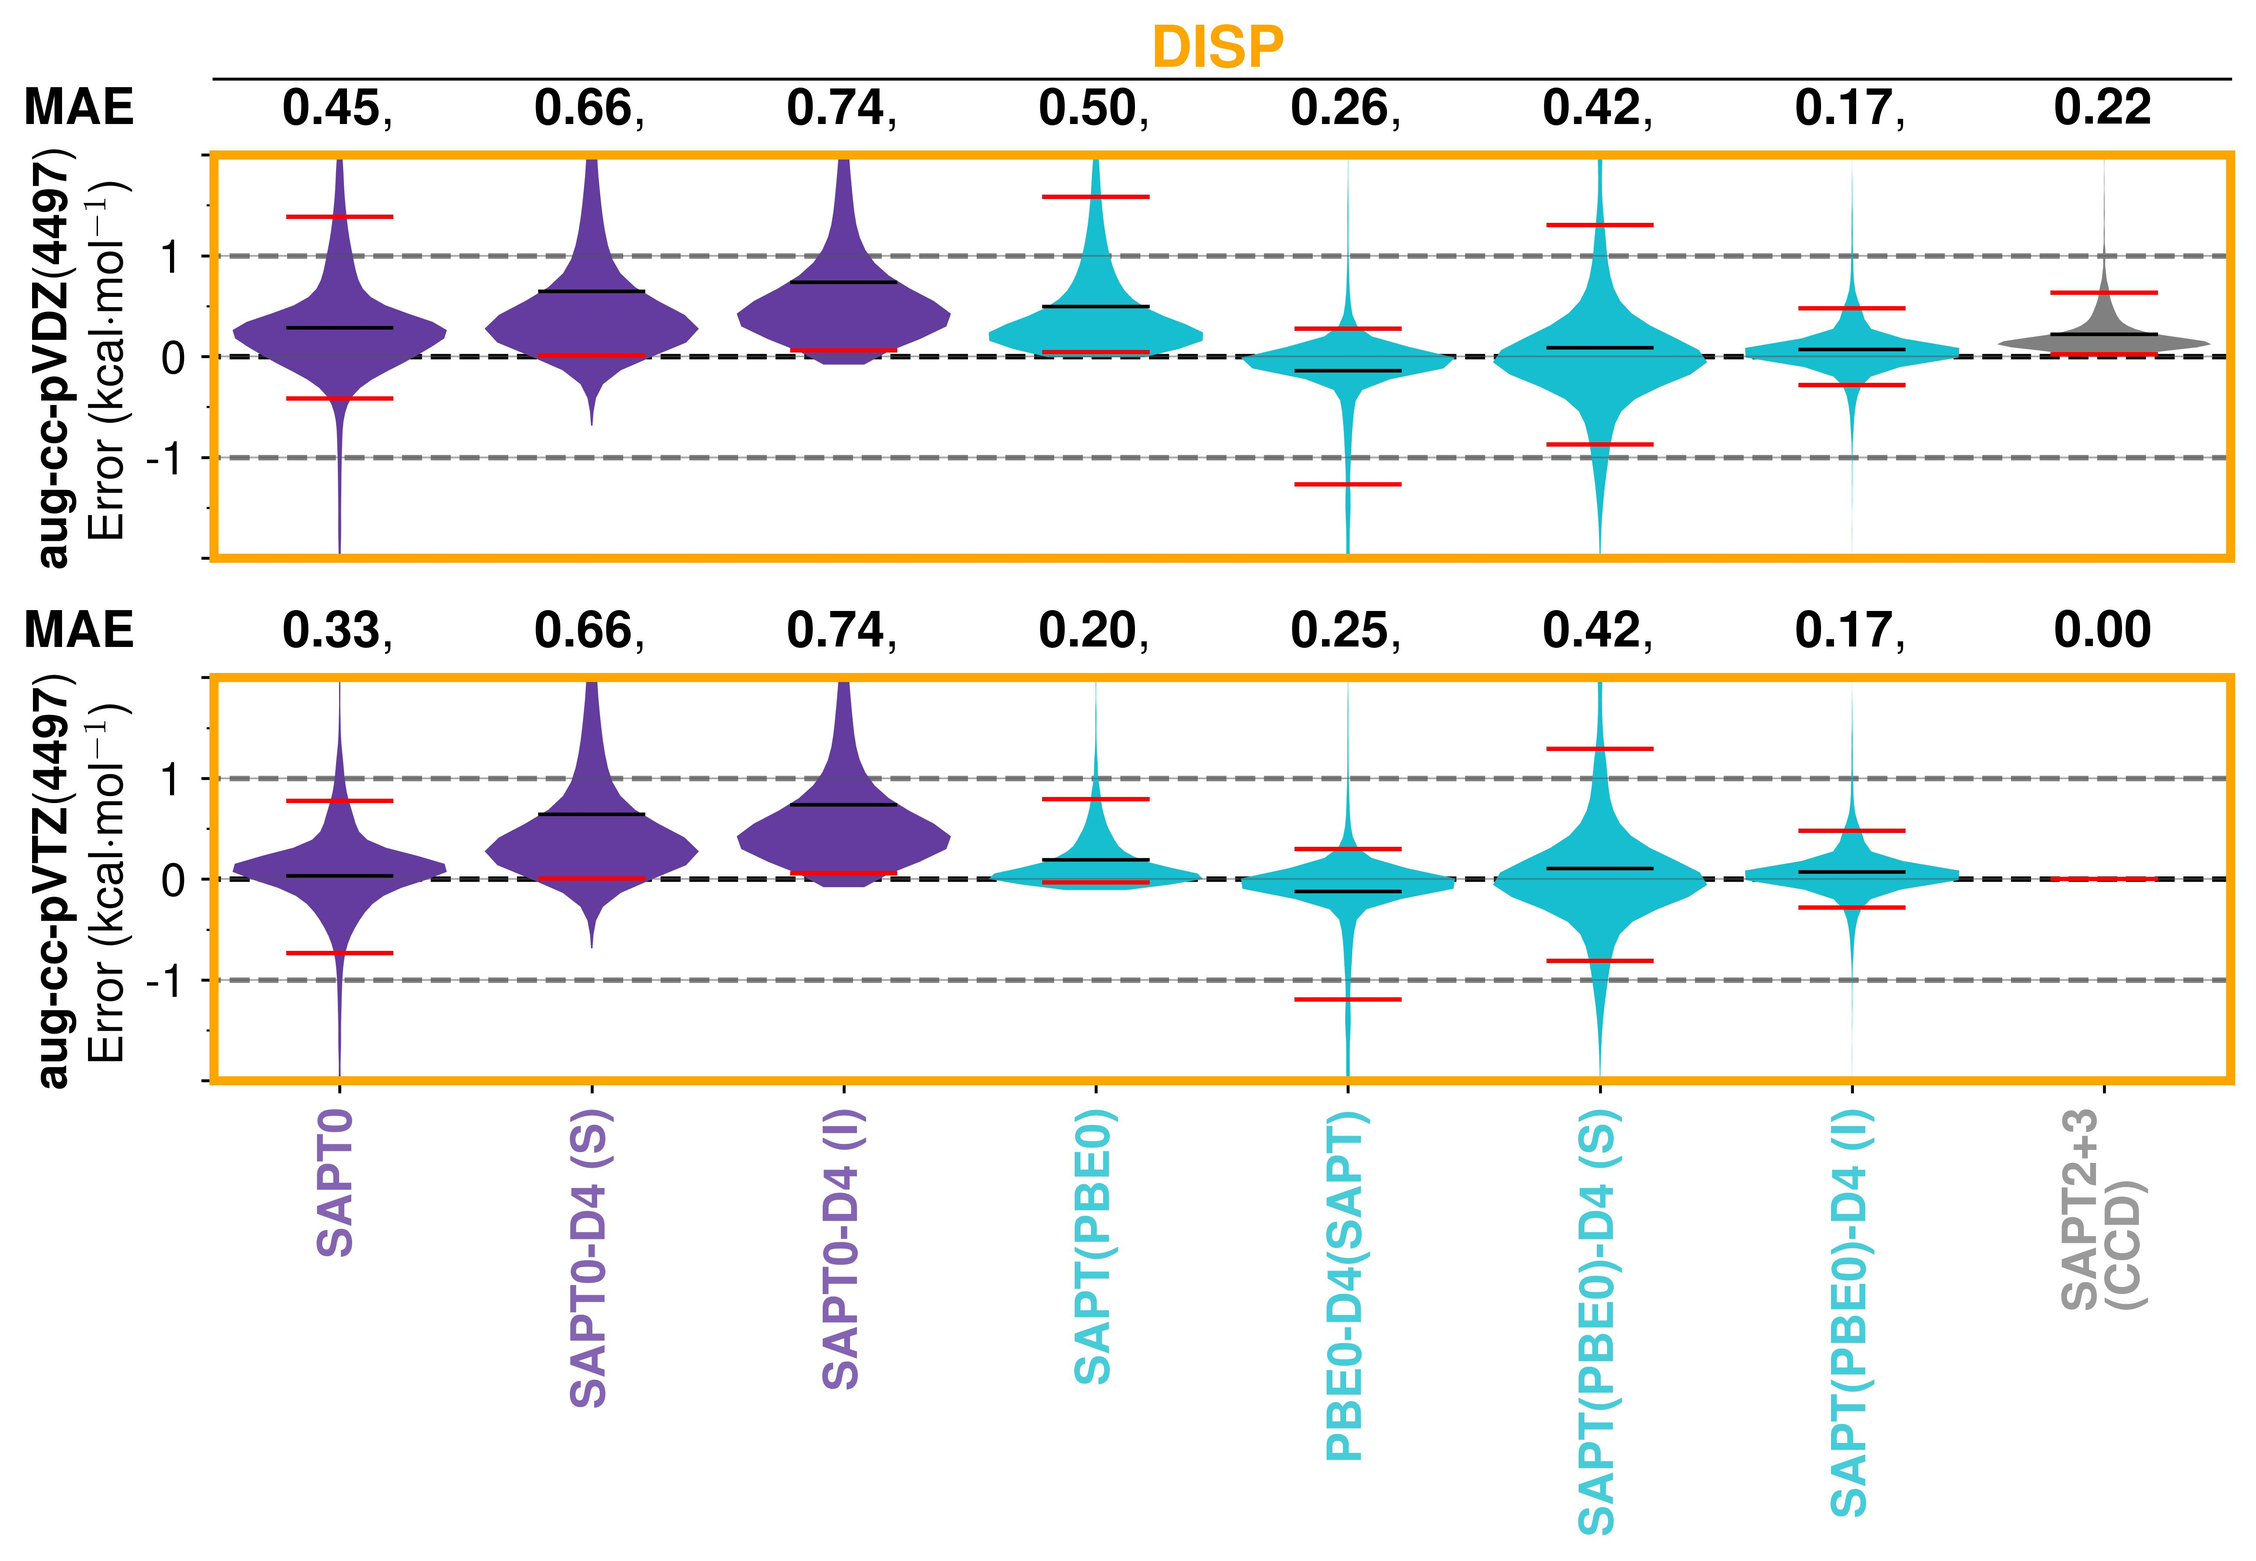
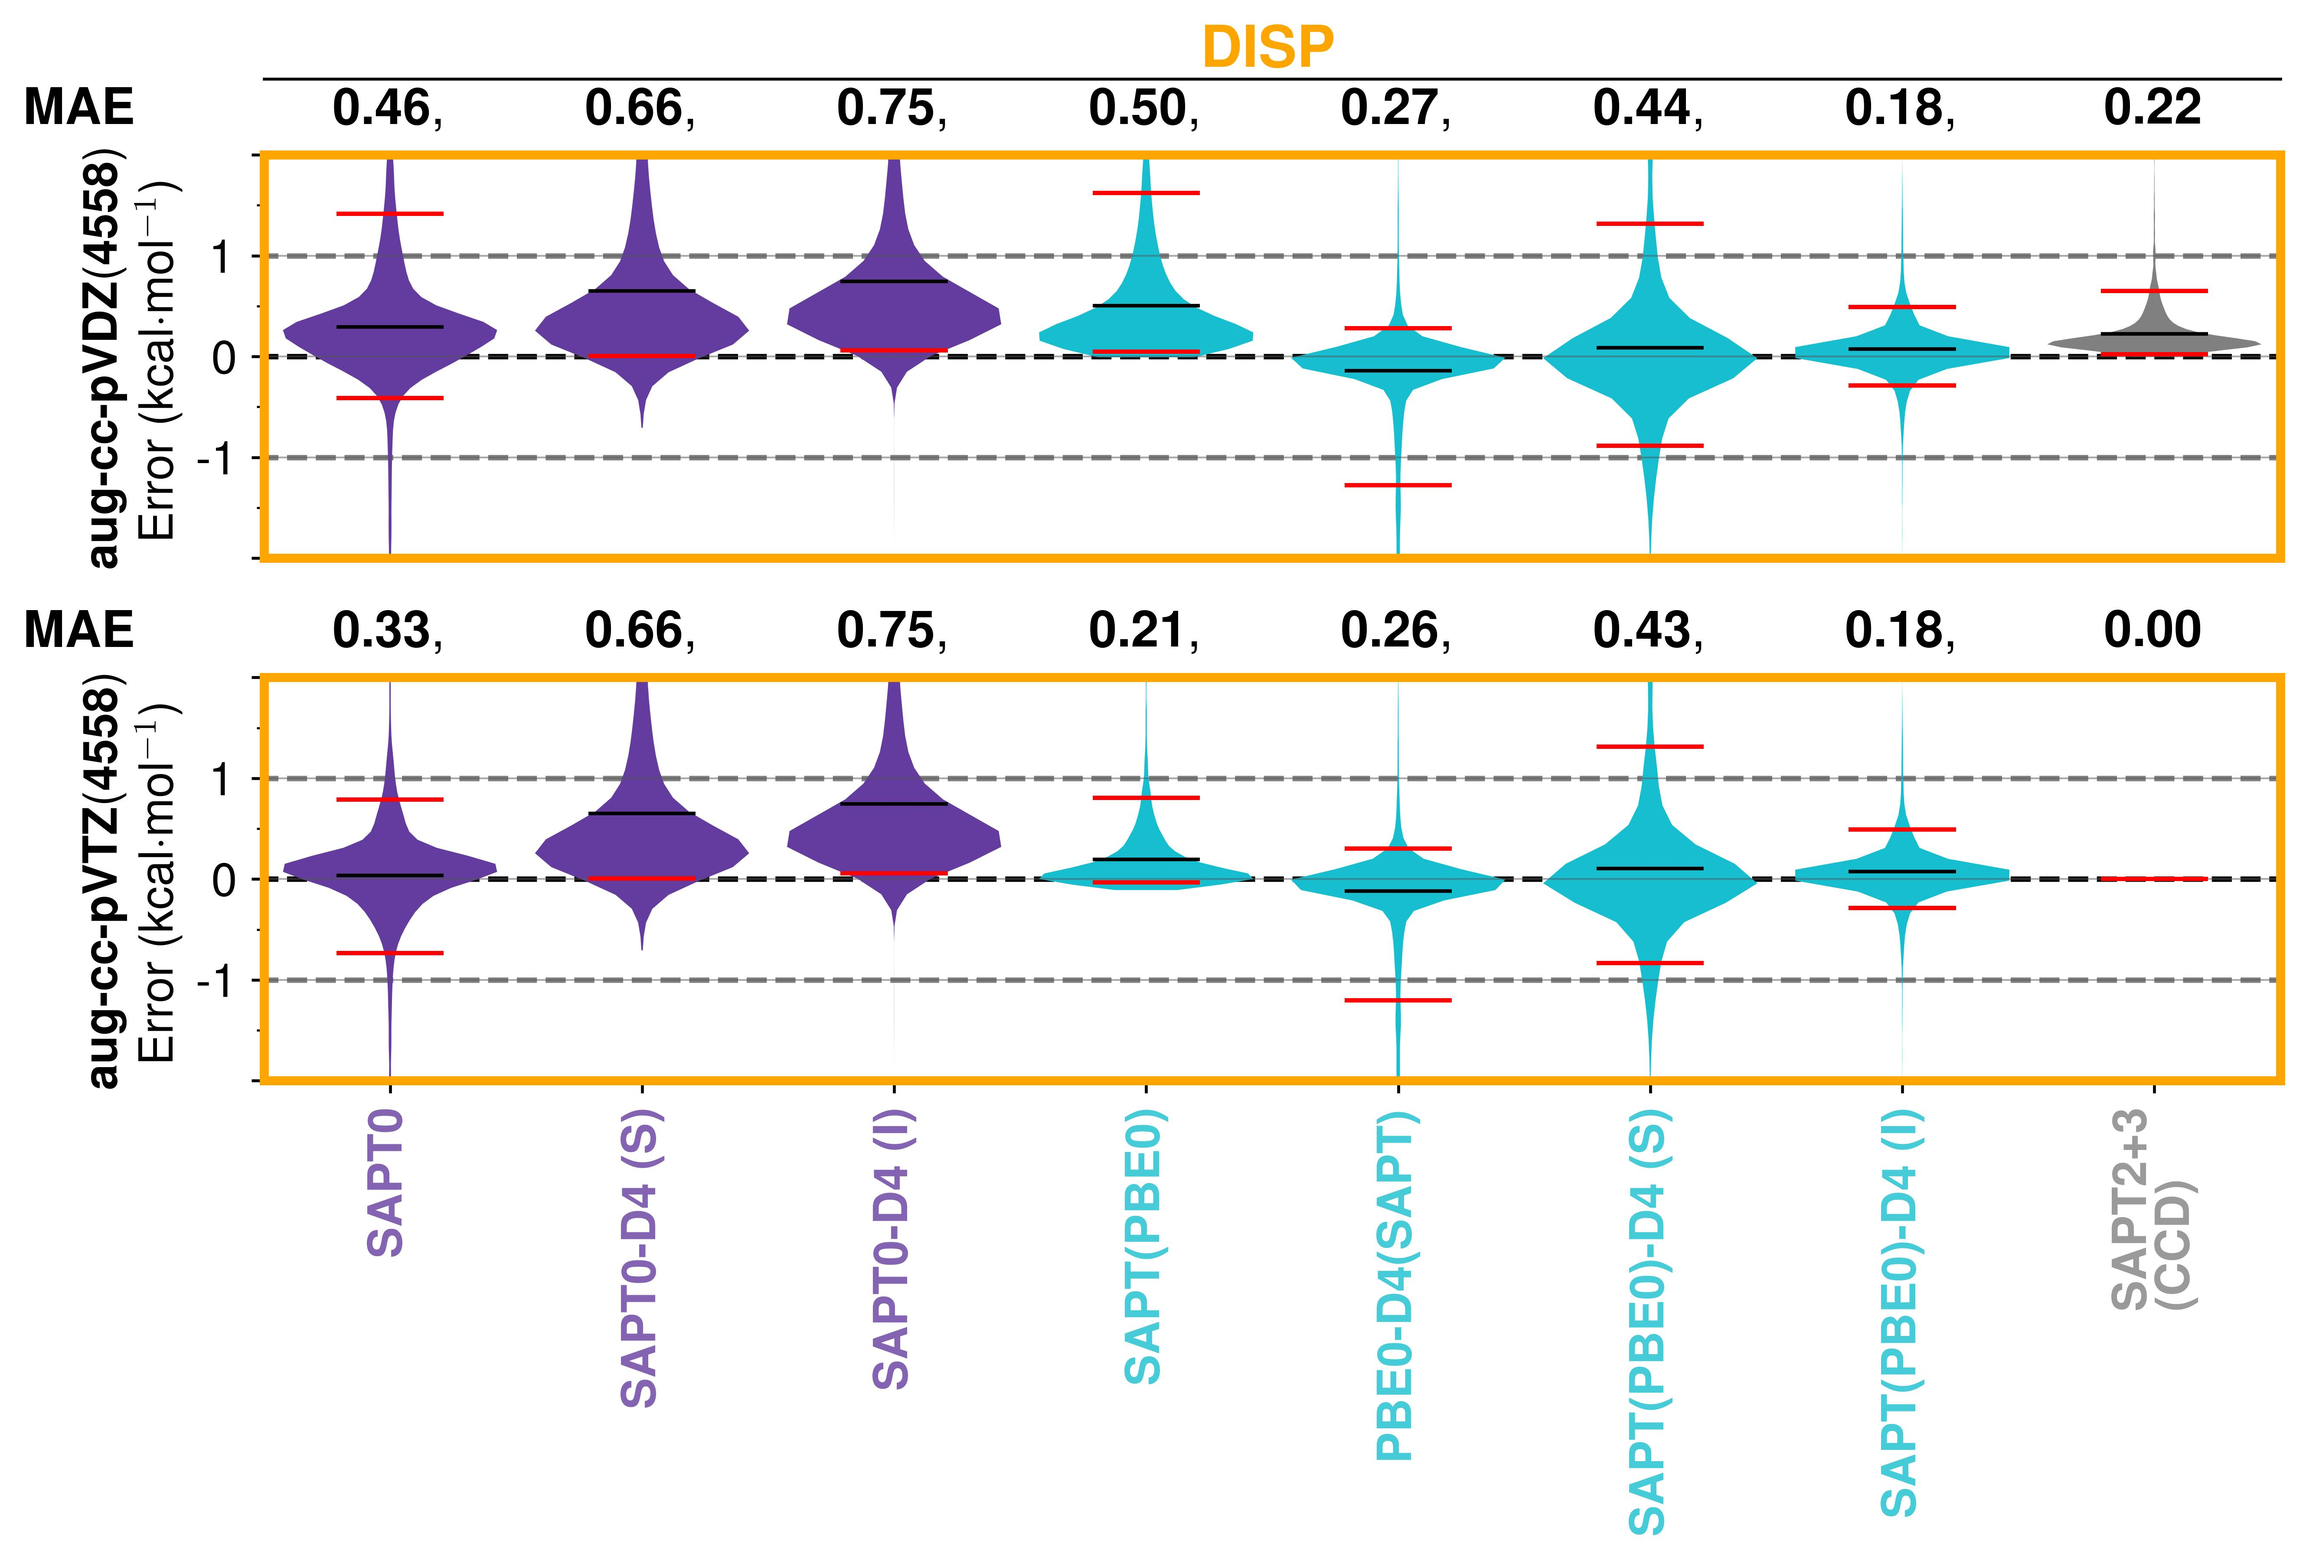
presentation plots

diff --git a/src/plotting.py b/src/plotting.py
@@ -6944,6 +6944,21 @@ def violin_plots_multi_components_df_individual(df, limit_to_column_not_nan=None
         "SAPT(PBE0)-D4 SUPRA DISP ENERGY",
         "SAPT(B3LYP)-D4 SUPRA DISP ENERGY",
         "SAPT0-D4 (I) DISP ENERGY",
+        "SAPT0-D4 (I) TOTAL ENERGY",
+
+        "SAPT0 TOTAL ENERGY",
+        "SAPT2+3(CCD) TOTAL ENERGY",
+        "SAPT2+DMP2 TOTAL ENERGY",
+        "SAPT2+(CCD)DMP2 TOTAL ENERGY",
+        "SAPT2+3(CCD)DMP2 TOTAL ENERGY",
+        "SAPT0-D4 TOTAL ENERGY",
+        "SAPT TOTAL ENERGY",
+        "SAPT(DFT)D3-ML TOTAL ENERGY",
+        "SAPT(B3LYP)D3-ML TOTAL ENERGY",
+        "SAPT(DFT)-D4 TOTAL ENERGY",
+        "SAPT(DFT)+D4 TOTAL ENERGY",
+        "SAPT(PBE0)-D4 SUPRA TOTAL ENERGY",
+        "SAPT(B3LYP)-D4 SUPRA TOTAL ENERGY",
     ]
     sapt_reference = {
         # "ELST": "SAPT2+3(CCD)DMP2 ELST ENERGY",
@@ -6956,7 +6971,6 @@ def violin_plots_multi_components_df_individual(df, limit_to_column_not_nan=None
         "DISP": "SAPT2+3(CCD) DISP ENERGY",
     }
 
-    reference = "benchmark ref energy"
     copy_cols_start = [
         "DB",
         "system_id",
@@ -6985,10 +6999,21 @@ def violin_plots_multi_components_df_individual(df, limit_to_column_not_nan=None
         # "SAPT_DFT_pbe0_atz_disp",
         # "SAPT_DFT_pbe0d4_atz_disp",
         # "SAPT0-D4 atz",
+        "SAPT_DFT_D4_pbe0_adz_total",
+        "SAPT_DFT_D4_pbe0_atz_total",
+        "SAPT_DFT_pbe0_adz_total",
+        "SAPT_DFT_pbe0_atz_total",
+        "SAPT_DFT_D4_b3lyp_adz_total",
+        "SAPT_DFT_D4_b3lyp_atz_total",
+        "SAPT_DFT_b3lyp_adz_total",
+        "SAPT_DFT_b3lyp_atz_total",
+
     ]
     copy_cols = copy_cols_start.copy()
     copy_cols.extend([f"{c} adz" for c in sapt_methods])
     copy_cols.extend([f"{c} adz" for c in sapt_reference.values()])
+    print('copying cols:')
+    pp(copy_cols)
     df_adz = df[copy_cols].copy()
     df_adz.columns = [c.replace(" adz", "") for c in df_adz.columns]
 
@@ -7002,6 +7027,37 @@ def violin_plots_multi_components_df_individual(df, limit_to_column_not_nan=None
 
     df_adz = sapt_error_comp(df_adz, df_atz, sapt_reference, sapt_methods)
     df_atz = sapt_error_comp(df_atz, df_atz, sapt_reference, sapt_methods)
+
+    df_adz = df_adz.rename(
+        columns={
+            "SAPT_DFT_D4_pbe0_adz_total": "PBE0-D4 TOTAL ENERGY",
+            "SAPT_DFT_pbe0_adz_total": "SAPT(DFT) [PBE0] TOTAL ENERGY",
+            "SAPT_DFT_D4_b3lyp_adz_total": "B3LYP-D4 TOTAL ENERGY",
+            "SAPT_DFT_b3lyp_adz_total": "SAPT(DFT) [B3LYP] TOTAL ENERGY",
+        },
+        # inplace=True,
+    )
+    df_atz = df_atz.rename(
+        columns={
+            "SAPT_DFT_D4_pbe0_atz_total": "PBE0-D4 TOTAL ENERGY",
+            "SAPT_DFT_pbe0_atz_total": "SAPT(DFT) [PBE0] TOTAL ENERGY",
+            "SAPT_DFT_D4_b3lyp_atz_total": "B3LYP-D4 TOTAL ENERGY",
+            "SAPT_DFT_b3lyp_atz_total": "SAPT(DFT) [B3LYP] TOTAL ENERGY",
+        },
+        # inplace=True,
+    )
+
+    local_methods = [
+        "PBE0-D4 TOTAL ENERGY",
+        "B3LYP-D4 TOTAL ENERGY",
+        "SAPT(DFT) [PBE0] TOTAL ENERGY",
+        "SAPT(DFT) [B3LYP] TOTAL ENERGY",
+    ]
+    reference = "benchmark ref energy"
+    pp(df_adz.columns.to_list())
+    for i in local_methods:
+        df_adz[f"{i} Error"] = df_adz[i] * h2kcalmol - df_adz[reference]
+        df_atz[f"{i} Error"] = df_atz[i] * h2kcalmol - df_atz[reference]
 
     adz_ylims = [
         [-2, 2],
@@ -7108,6 +7164,83 @@ def violin_plots_multi_components_df_individual(df, limit_to_column_not_nan=None
             # INDIGO,
         ],
     ]
+
+    # TOTAL
+    cdsg_plot.error_statistics.violin_plot_table_multi_SAPT_components(
+        dfs_all,
+        df_labels_and_columns_elst={},
+        df_labels_and_columns_exch={},
+        df_labels_and_columns_indu={},
+        df_labels_and_columns_disp={},
+        df_labels_and_columns_total={
+            "SAPT0": "SAPT0 TOTAL ENERGY Error",
+            "SAPT0-D4 (S)": "SAPT0-D4 TOTAL ENERGY Error",
+            "SAPT0-D4 (I)": "SAPT0-D4 (I) TOTAL ENERGY Error",
+            "SAPT(PBE0)": "SAPT(DFT) [PBE0] TOTAL ENERGY Error",
+            "PBE0-D4(SAPT)": "PBE0-D4 TOTAL ENERGY Error",
+            "SAPT(PBE0)-D4 (S)": "SAPT(DFT)-D4 TOTAL ENERGY Error",
+            "SAPT(PBE0)-D4 (I)": "SAPT(PBE0)-D4 SUPRA TOTAL ENERGY Error",
+            "SAPT(B3LYP)": "SAPT(DFT) [B3LYP] TOTAL ENERGY Error",
+            "B3LYP-D4(SAPT)": "B3LYP-D4 TOTAL ENERGY Error",
+            # "SAPT(PBE0)\\\\D3-ML": "SAPT(DFT)D3-ML TOTAL ENERGY Error",
+            "SAPT2+3\\\\(CCD)": "SAPT2+3(CCD) TOTAL ENERGY Error",
+        },
+        colors=[
+            [
+                # PURPLE,TEAL,LIGHT_BLUE,Medium_Sea_Green,INDIGO,PURPLE,TEAL,LIGHT_BLUE,Medium_Sea_Green,INDIGO,'orange',GREY,
+                # PURPLE,TEAL,LIGHT_BLUE,Medium_Sea_Green,INDIGO,PURPLE,TEAL,LIGHT_BLUE,Medium_Sea_Green,INDIGO,'orange',GREY,
+                PURPLE,
+                PURPLE,
+                PURPLE,
+                TEAL,
+                TEAL,
+                TEAL,
+                TEAL,
+                Medium_Sea_Green,
+                Medium_Sea_Green,
+                # "orange",
+                GREY,
+                Medium_Sea_Green,
+                PURPLE,
+                TEAL,
+                Medium_Sea_Green,
+            ]
+        ],
+        output_filename=f"./plots/individuals/LoS_total_saptdft_extended_pres.jpg",
+        # f"./plots/individuals/LoS_total_saptdft_extended_pres_violin.jpg",
+        usetex=True,
+        legend_loc=None,
+        figure_size=(10, 5),
+        grid_widths=[1.0],
+        grid_heights=[
+            0.08,
+            1,
+            0.08,
+            1,
+        ],
+        table_fontsize=14,
+        x_label_fontsize=13,
+        y_label_fontsize=13,
+        title_fontsize=16,
+        mcure=None,
+        MAE="textbf",
+        RMSE=False,
+        MinE=False,
+        MaxE=False,
+        annotations_texty=0.0,
+        share_y_axis=True,
+        wspace=0.05,
+        table_delimiter=",",
+        gridlines_linewidths=1.5,
+        violin_alphas=1.0,
+        quantile_linewidth=1.2,
+        pm_alpha=0.5,
+        zero_alpha=1.0,
+        hide_ytick_label_edges=True,
+        # mcure=mcure_labels,
+    )
+
+
     # DIPS Components
     cdsg_plot.error_statistics.violin_plot_table_multi_SAPT_components(
         dfs_all,
@@ -7191,98 +7324,8 @@ def violin_plots_multi_components_df_individual(df, limit_to_column_not_nan=None
         hide_ytick_label_edges=True,
         # mcure=mcure_labels,
     )
-    return
 
-    cdsg_plot.error_statistics.violin_plot_table_multi_SAPT_components(
-        dfs_all,
-        df_labels_and_columns_elst={},
-        df_labels_and_columns_exch={},
-        df_labels_and_columns_indu={},
-        df_labels_and_columns_disp={},
-        df_labels_and_columns_total={
-            # "PBE0": "PBE0 IE Error",
-            # "B3LYP": "B3LYP IE Error",
-            # "B2PLYP": "B2PLYP IE Error",
-            # "WB97X": "WB97X IE Error",
-            # SAPT(DFT)
-            "SAPT0": "SAPT0 TOTAL ENERGY Error",
-            "SAPT(PBE0)": "SAPT(DFT) [PBE0] TOTAL ENERGY Error",
-            "SAPT(B3LYP)": "SAPT(DFT) [B3LYP] TOTAL ENERGY Error",
-            # "SAPT(DFT)\\\\[B2PLYP]": "SAPT(DFT) [B2PLYP] TOTAL ENERGY Error",
-            # "SAPT(DFT)\\\\[WB97X]": "SAPT(DFT) [WB97X] TOTAL ENERGY Error",
-            # DFT-D4
-            "SAPT0-D4": "SAPT0-D4 TOTAL ENERGY Error",
-            "PBE0-D4(SAPT)": "PBE0-D4 TOTAL ENERGY Error",
-            "B3LYP-D4(SAPT)": "B3LYP-D4 TOTAL ENERGY Error",
-            # "B2PLYP-D4": "B2PLYP-D4 TOTAL ENERGY Error",
-            # "WB97X-D4": "WB97X-D4 TOTAL ENERGY Error",
-            "SAPT(PBE0)\\\\D3-ML": "SAPT(DFT)D3-ML TOTAL ENERGY Error",
-            # SAPT(DFT) D's
-            # "SAPT(DFT)-D4": "SAPT(DFT)-D4 TOTAL ENERGY Error",
-            # "SAPT(DFT)+D4": "SAPT(DFT)+D4 TOTAL ENERGY Error",
-            # Wavefunction
-            # "SAPT2": "SAPT2 TOTAL ENERGY Error",
-            # "SAPT2+": "SAPT2+ TOTAL ENERGY Error",
-            # "SAPT2+(3)": "SAPT2+(3) TOTAL ENERGY Error",
-            # "SAPT2+3": "SAPT2+3 TOTAL ENERGY Error",
-            # "SAPT2+3(CCD)DMP2": "SAPT2+3(CCD)DMP2 TOTAL ENERGY Error",
-            # "SAPT2+3\\\\(CCD)DMP2": "SAPT2+3(CCD)DMP2 TOTAL ENERGY Error",
-            "SAPT2+3\\\\(CCD)": "SAPT2+3(CCD) TOTAL ENERGY Error",
-        },
-        colors=[
-            [
-                # PURPLE,TEAL,LIGHT_BLUE,Medium_Sea_Green,INDIGO,PURPLE,TEAL,LIGHT_BLUE,Medium_Sea_Green,INDIGO,'orange',GREY,
-                # PURPLE,TEAL,LIGHT_BLUE,Medium_Sea_Green,INDIGO,PURPLE,TEAL,LIGHT_BLUE,Medium_Sea_Green,INDIGO,'orange',GREY,
-                PURPLE,
-                TEAL,
-                Medium_Sea_Green,
-                PURPLE,
-                TEAL,
-                Medium_Sea_Green,
-                "orange",
-                GREY,
-                PURPLE,
-                TEAL,
-                Medium_Sea_Green,
-                PURPLE,
-                TEAL,
-                Medium_Sea_Green,
-                "orange",
-                GREY,
-            ]
-        ],
-        output_filename=f"./plots/individuals/LoS_total_saptdft_extended_pres.jpg",
-        usetex=True,
-        legend_loc=None,
-        figure_size=(10, 5),
-        grid_widths=[1.0],
-        grid_heights=[
-            0.08,
-            1,
-            0.08,
-            1,
-        ],
-        table_fontsize=14,
-        x_label_fontsize=13,
-        y_label_fontsize=13,
-        title_fontsize=16,
-        mcure=None,
-        MAE="textbf",
-        RMSE=False,
-        MinE=False,
-        MaxE=False,
-        annotations_texty=0.0,
-        share_y_axis=True,
-        wspace=0.05,
-        table_delimiter=",",
-        gridlines_linewidths=1.5,
-        violin_alphas=1.0,
-        quantile_linewidth=1.2,
-        pm_alpha=0.5,
-        zero_alpha=1.0,
-        hide_ytick_label_edges=True,
-        # mcure=mcure_labels,
-    )
+    return
     # SAPT0-D4 vs. SAPT(DFT)-D4
     cdsg_plot.error_statistics.violin_plot_table_multi_SAPT_components(
         [dfs_all[0]],
@@ -8713,7 +8756,7 @@ def plot_LoS_saptdft(
     if presentation:
         # violin_plots_multi_components_subset(df, limit_to_column_not_nan="D3-ML")
         # return
-        violin_plots_multi(df)
+        # violin_plots_multi(df)
         # violin_plots_multi_components(df, limit_to_column_not_nan="D3-ML", slide=True)
         # # return
         # violin_plots_multi_subset(df)
@@ -8724,7 +8767,9 @@ def plot_LoS_saptdft(
         #     df, limit_to_column_not_nan="D3-ML"
         # )
         # violin_plots_multi_individual(df)
+        violin_plots_multi_components_df_individual(df)
         # violin_plots_multi_subset_individual(df)
+        # violin_plots_multi()
     else:
         # return
         # return
